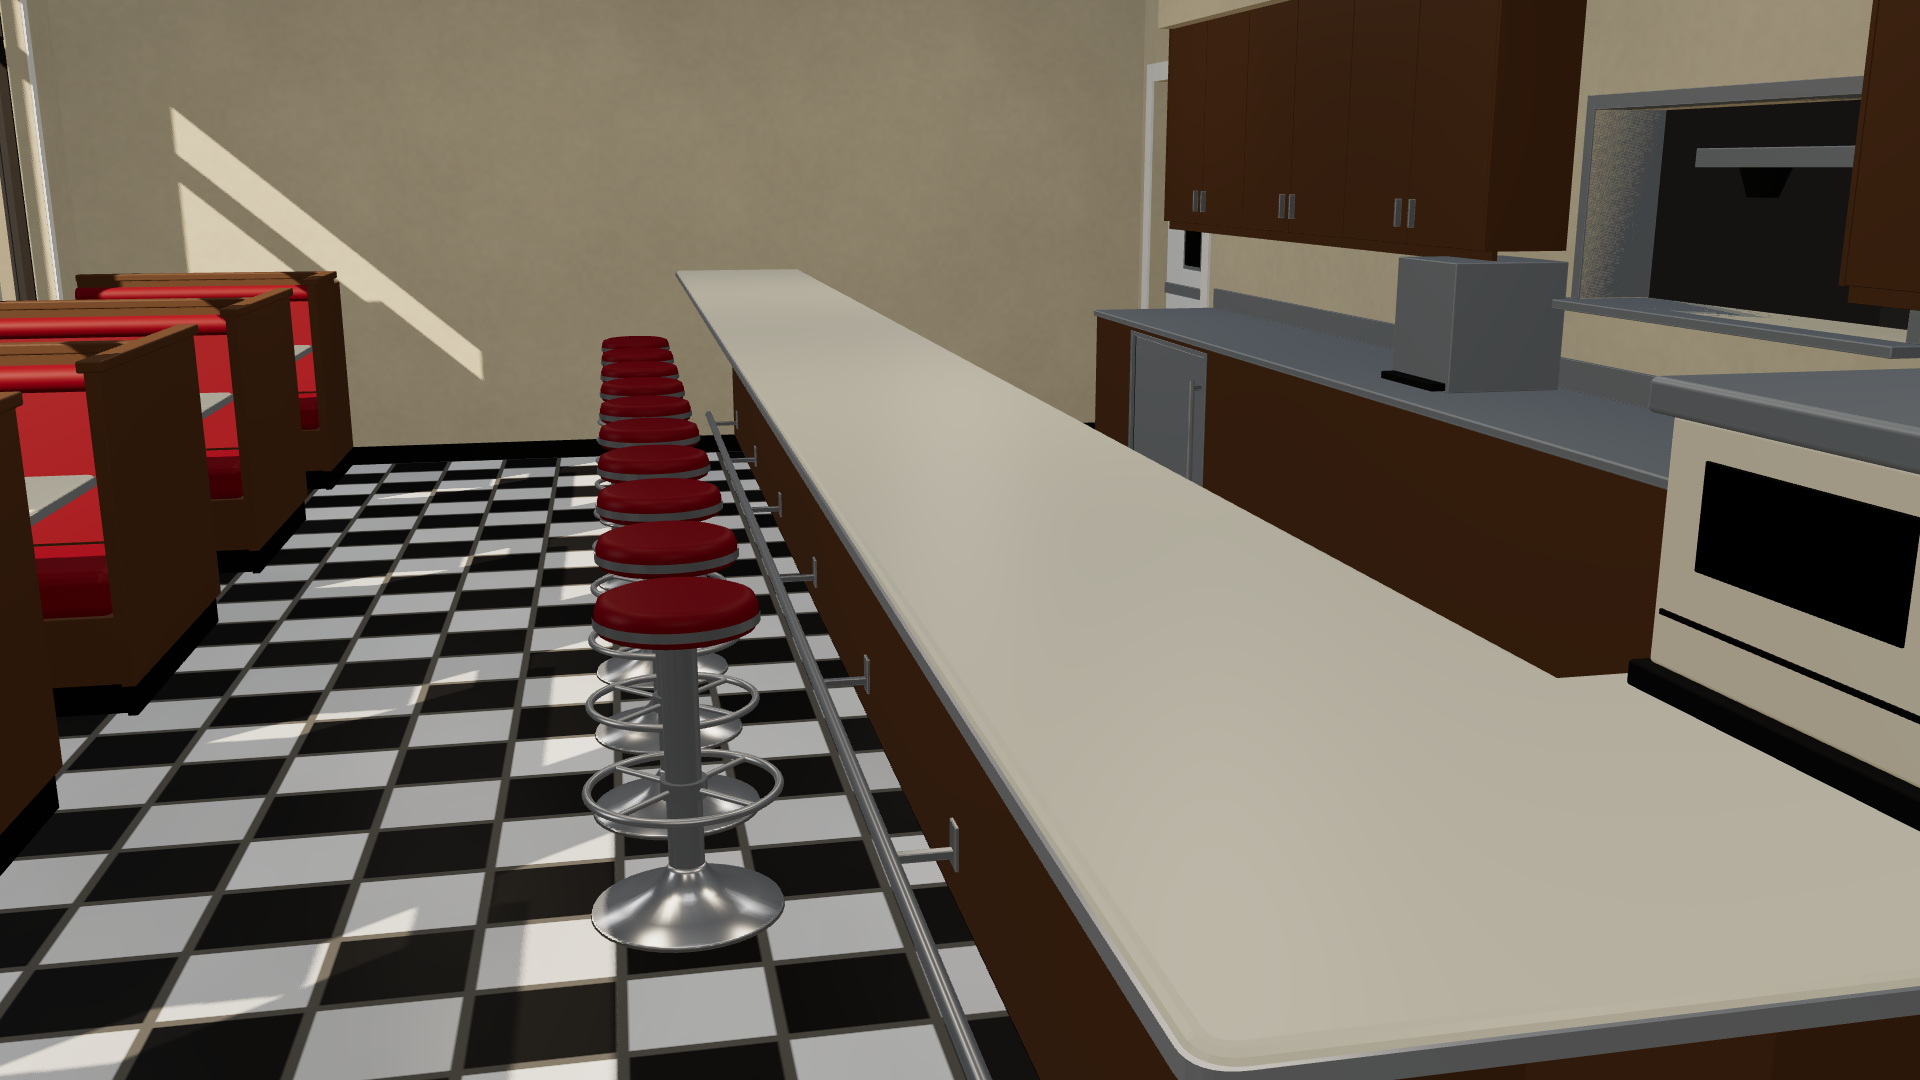
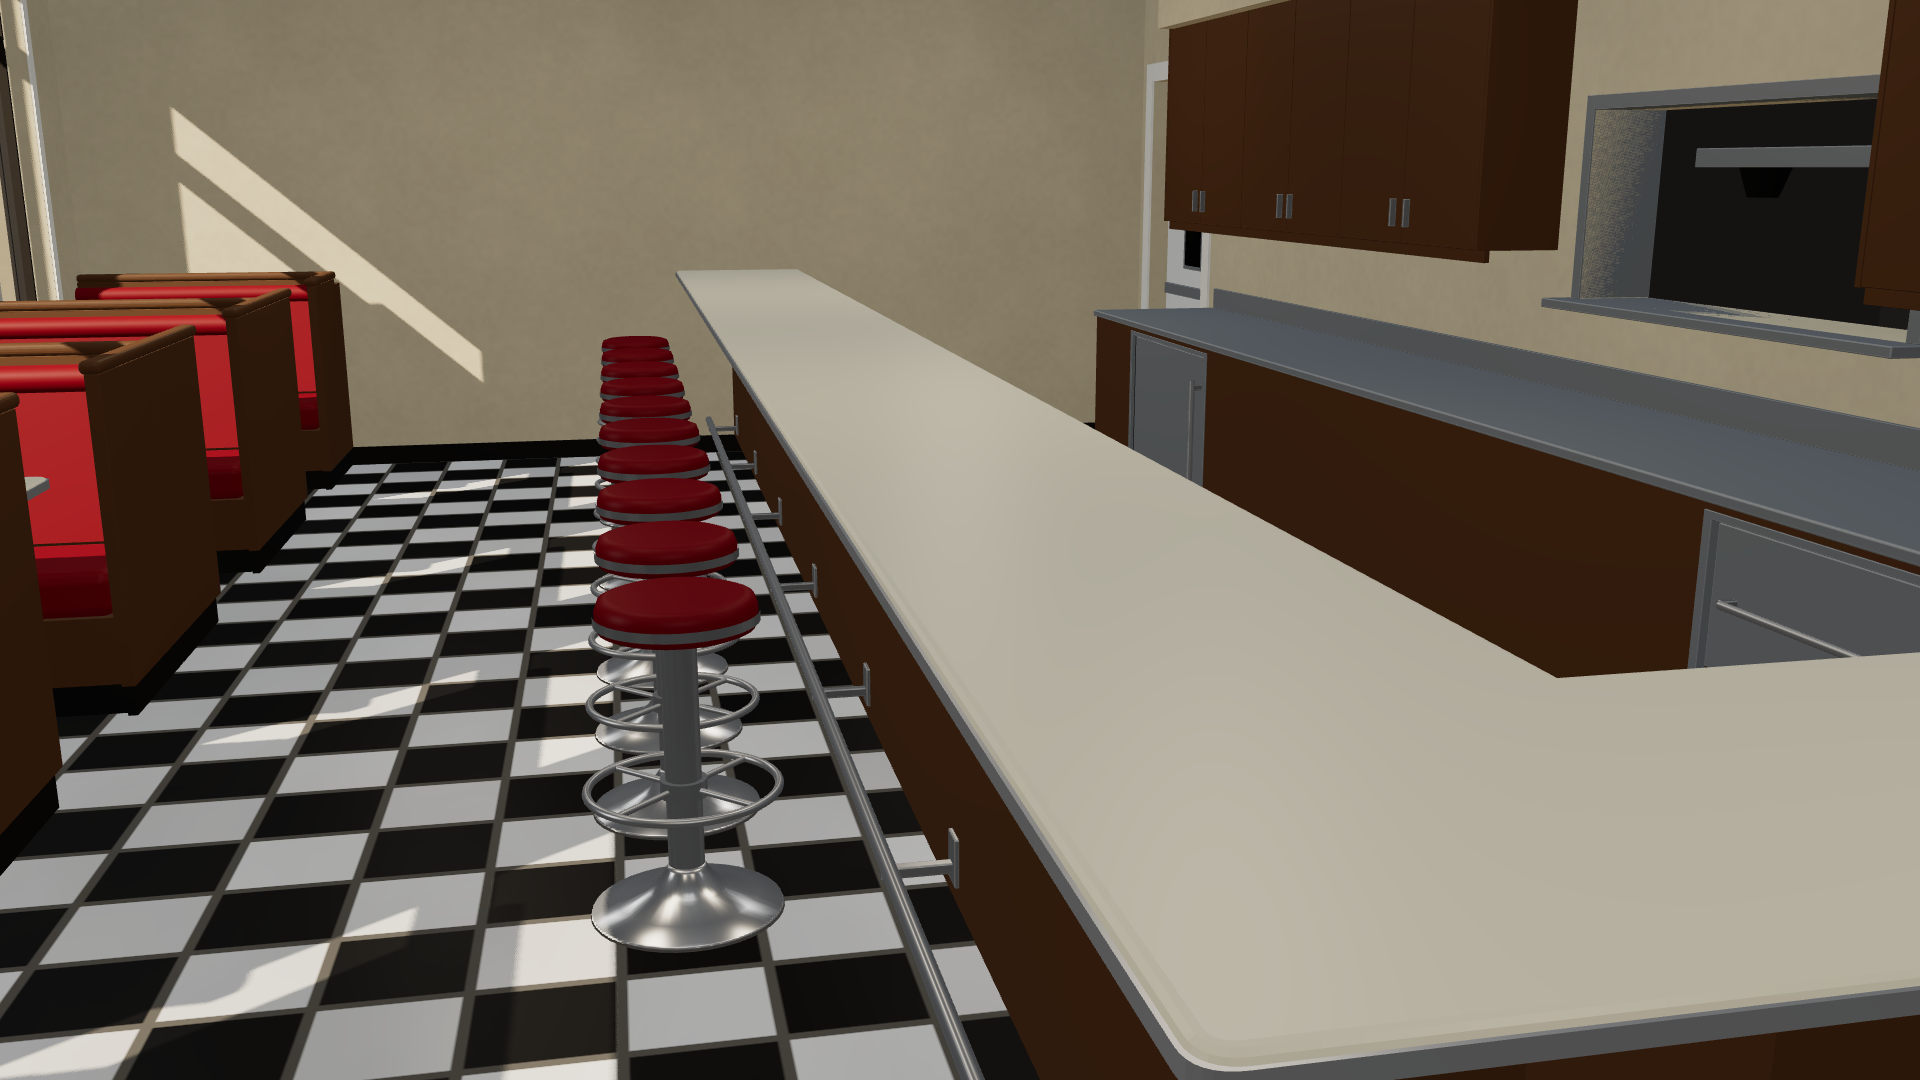
System 1 rev 4: close-out per critic review

diff --git a/src/scene/Counter.ts b/src/scene/Counter.ts
@@ -60,9 +60,10 @@ export function buildCounter(parent: THREE.Group, pal: Palette): { colliders: Me
     rail.translate((xMin + 0.05 + tubeX) / 2, footrest.y, tubeZ);
     b.add(rail, pal.chrome);
     for (let x = xMin + 0.3; x < xMax; x += footrest.bracketPitch) {
-      // Bracket: wall plate on the die, horizontal arm out to the tube, saddle under it
-      b.rbox(pal.chrome, [x - 0.03, footrest.y - 0.05, dieFront - 0.002], [x + 0.03, footrest.y + 0.05, dieFront + 0.008], 0.003);
-      b.rbox(pal.chrome, [x - 0.012, footrest.y - 0.028, dieFront], [x + 0.012, footrest.y - 0.008, tubeZ + 0.01], 0.003);
+      // Cast bracket: 70 × 110 mm base plate on the die, tapered arm out to a saddle under the tube
+      b.rbox(pal.chrome, [x - 0.035, footrest.y - 0.055, dieFront - 0.002], [x + 0.035, footrest.y + 0.055, dieFront + 0.01], 0.004);
+      b.rbox(pal.chrome, [x - 0.014, footrest.y - 0.03, dieFront], [x + 0.014, footrest.y - 0.006, tubeZ + 0.012], 0.004);
+      b.rbox(pal.chrome, [x - 0.02, footrest.y - 0.032, tubeZ - 0.014], [x + 0.02, footrest.y + 0.004, tubeZ + 0.014], 0.005);
     }
     // L-return footrest along z
     const rail2 = new THREE.CylinderGeometry(footrest.tubeR, footrest.tubeR, tubeZ - lReturnZEnd - 0.05, 20);
@@ -73,21 +74,12 @@ export function buildCounter(parent: THREE.Group, pal: Palette): { colliders: Me
     elbow.translate(tubeX, footrest.y, tubeZ);
     b.add(elbow, pal.chrome);
     for (let z = lReturnZEnd + 0.3; z < dieBack; z += footrest.bracketPitch) {
-      b.rbox(pal.chrome, [lDieX1 - 0.002, footrest.y - 0.05, z - 0.03], [lDieX1 + 0.008, footrest.y + 0.05, z + 0.03], 0.003);
-      b.rbox(pal.chrome, [lDieX1, footrest.y - 0.028, z - 0.012], [tubeX + 0.01, footrest.y - 0.008, z + 0.012], 0.003);
+      b.rbox(pal.chrome, [lDieX1 - 0.002, footrest.y - 0.055, z - 0.035], [lDieX1 + 0.01, footrest.y + 0.055, z + 0.035], 0.004);
+      b.rbox(pal.chrome, [lDieX1, footrest.y - 0.03, z - 0.014], [tubeX + 0.012, footrest.y - 0.006, z + 0.014], 0.004);
+      b.rbox(pal.chrome, [tubeX - 0.014, footrest.y - 0.032, z - 0.02], [tubeX + 0.014, footrest.y + 0.004, z + 0.02], 0.005);
     }
 
-    // Register stand on the top at the door end: 0.45 × 0.35 × 0.35, base plinth, body, lid.
-    {
-      const { x0, x1, z0, z1 } = COUNTER.register;
-      const y = height;
-      b.rbox(pal.darkMetal, [x0, y, z0], [x1, y + 0.03, z1], 0.004);
-      b.rbox(pal.formica, [x0 + 0.015, y + 0.03, z0 + 0.015], [x1 - 0.015, y + 0.31, z1 - 0.015], 0.006, 3);
-      b.rbox(pal.stainless, [x0 - 0.005, y + 0.31, z0 - 0.005], [x1 + 0.005, y + 0.35, z1 + 0.005], 0.008, 3);
-      // Drawer line and a display panel on the aisle (+z) face
-      b.box(pal.darkMetal, [x0 + 0.03, y + 0.09, z1 - 0.016], [x1 - 0.03, y + 0.096, z1 - 0.012]);
-      b.rbox(pal.darkGlass, [x0 + 0.08, y + 0.15, z1 - 0.018], [x1 - 0.08, y + 0.27, z1 - 0.012], 0.002);
-    }
+    // The L-return top stays empty: the register is a prop (System 2+).
 
     b.collider([xMin, 0, dieBack], [lReturnXOuter, height, topFrontZ]);
     b.collider([xMax, 0, lReturnZEnd], [lReturnXOuter, height, dieBack]);
@@ -240,9 +232,7 @@ export function buildCounter(parent: THREE.Group, pal: Palette): { colliders: Me
     b.rbox(pal.stainless, [xMin, height, zBack - 0.005], [xMax, height + 0.1, zBack + 0.015], 0.002);
     b.collider([xMin, 0, zBack], [xMax, height, zFront]);
 
-    // Coffee warmer position: stainless brewer body placeholder (System 2 details it).
-    b.rbox(pal.stainless, [coffeeX - 0.2, height, zBack + 0.05], [coffeeX + 0.2, height + 0.42, zBack + 0.45], 0.004, 3);
-    b.rbox(pal.darkMetal, [coffeeX - 0.18, height + 0.005, zBack + 0.05], [coffeeX + 0.18, height + 0.03, zBack + 0.5], 0.003);
+    void coffeeX; // the brewer itself is built in Props.ts (System 2)
   }
 
   /* ---------------- upper cabinets + soffit ---------------- */

diff --git a/src/scene/Booths.ts b/src/scene/Booths.ts
@@ -21,15 +21,17 @@ export function buildBooths(parent: THREE.Group, pal: Palette): { colliders: Mer
   const czMid = (zEnd0 + zInner) / 2;
   const cz0 = czMid - capHalf, cz1 = czMid + capHalf;
 
+  // Cap rail 60 × 40 mm with a 16 mm bullnose, one continuous run per divider.
   const capSlab = (pts: XZ[]) => {
-    const [slab] = slabGeometry(pts, { radius: 0.006, y0: cap.y0, thickness: cap.y1 - cap.y0, bevel: 0.006, curveSegments: 3 });
+    const [slab] = slabGeometry(pts, { radius: 0.008, y0: cap.y0, thickness: cap.y1 - cap.y0, bevel: cap.bullnose, curveSegments: 3 });
     b.add(slab, pal.laminateWood);
   };
 
   for (const cx of WINDOW.centersX) {
     /* ---- table ---- */
     {
-      const pts = rectXZ(cx - table.width / 2, zInner, cx + table.width / 2, zOuter);
+      const zT0 = zInner + table.inset;
+      const pts = rectXZ(cx - table.width / 2, zT0, cx + table.width / 2, zOuter);
       const [slab, band] = slabGeometry(pts, {
         radius: table.cornerR,
         y0: table.top - table.thickness,
@@ -40,15 +42,41 @@ export function buildBooths(parent: THREE.Group, pal: Palette): { colliders: Mer
       });
       b.add(slab, pal.formica);
       if (band) b.add(band, pal.formicaEdge);
-      // Pedestal: 90 mm chrome column on a 400 × 600 cast foot, mount plate under the top.
-      const pz = (zInner + zOuter) / 2;
-      b.rbox(pal.darkMetal, [cx - 0.2, 0, pz - 0.3], [cx + 0.2, 0.03, pz + 0.3], 0.012, 3);
-      const colH = table.top - table.thickness - 0.045;
-      const col = new THREE.CylinderGeometry(0.045, 0.045, colH, 24);
-      col.translate(cx, 0.03 + colH / 2, pz);
+      // Pedestal on the table centroid: cast bell base Ø 470 (40 mm rim rising to a Ø 150 boss),
+      // chrome column, 360 mm spider plate under the top.
+      const pz = (zT0 + zOuter) / 2;
+      const { bellR, bellRim, bossR, bossH, columnR, spider } = BOOTH.pedestal;
+      const bell = new THREE.LatheGeometry(
+        [
+          new THREE.Vector2(0, 0),
+          new THREE.Vector2(bellR, 0),
+          new THREE.Vector2(bellR, 0.012),
+          new THREE.Vector2(bellR - 0.006, bellRim),
+          new THREE.Vector2(bellR * 0.72, bellRim + 0.012),
+          new THREE.Vector2(bellR * 0.45, bellRim + 0.03),
+          new THREE.Vector2(bossR + 0.01, bossH - 0.012),
+          new THREE.Vector2(bossR, bossH),
+          new THREE.Vector2(0, bossH),
+        ],
+        48,
+      );
+      bell.translate(cx, 0, pz);
+      b.add(bell, pal.darkMetal);
+      const colH = table.top - table.thickness - 0.02 - bossH;
+      const col = new THREE.CylinderGeometry(columnR, columnR, colH, 28);
+      col.translate(cx, bossH + colH / 2, pz);
       b.add(col, pal.chrome);
-      b.rbox(pal.darkMetal, [cx - 0.15, table.top - table.thickness - 0.015, pz - 0.15], [cx + 0.15, table.top - table.thickness, pz + 0.15], 0.004);
-      b.collider([cx - table.width / 2, 0, zInner], [cx + table.width / 2, table.top, zOuter]);
+      const plate = new THREE.CylinderGeometry(spider / 2, spider / 2 - 0.01, 0.02, 32);
+      plate.translate(cx, table.top - table.thickness - 0.01, pz);
+      b.add(plate, pal.darkMetal);
+      for (let k = 0; k < 4; k++) {
+        const arm = new THREE.BoxGeometry(spider / 2 - columnR, 0.03, 0.04);
+        arm.translate((spider / 2 + columnR) / 2, 0, 0);
+        arm.rotateY((k / 4) * Math.PI * 2);
+        arm.translate(cx, table.top - table.thickness - 0.035, pz);
+        b.add(arm, pal.darkMetal);
+      }
+      b.collider([cx - table.width / 2, 0, zT0], [cx + table.width / 2, table.top, zOuter]);
     }
 
     /* ---- benches ---- */

diff --git a/src/scene/layout.ts b/src/scene/layout.ts
@@ -26,6 +26,8 @@ export const WINDOW = {
   head: 2.62,
   /** Horizontal transom bar. */
   transomY: 2.2,
+  /** Head bulkhead (blind pocket) between the window head trim and the ceiling grid. */
+  headSoffit: { bottom: 2.7, depth: 0.2 },
   /** Centres along x of the 5 front windows; each has a booth in front of it. Pitch 1.8. */
   centersX: [-4.7, -2.9, -1.1, 0.7, 2.5],
 } as const;
@@ -47,13 +49,15 @@ export const BOOTH = {
   /** Aisle end and wall end of the seating (z). Table wall edge sits 24 mm off the apron. */
   zInner: 2.0,
   zOuter: 3.21,
-  table: { width: 0.7, top: 0.75, thickness: 0.038, cornerR: 0.03, band: 0.025 },
+  /** Table is inset 120 mm from the end panels; 50 mm corner radii. */
+  table: { width: 0.7, inset: 0.12, top: 0.75, thickness: 0.038, cornerR: 0.05, band: 0.025 },
+  pedestal: { bellR: 0.235, bellRim: 0.04, bossR: 0.075, bossH: 0.09, columnR: 0.045, spider: 0.36 },
   seat: { front: 0.36, depth: 0.45, thickness: 0.14, top: 0.45, edgeR: 0.04 },
   /** Wedge back: front face reclined, rear face vertical against the divider, tapering to the roll. */
   back: { frontX: 0.76, rearX: 0.88, top: 0.97, reclineDeg: 9, rollR: 0.045 },
   divider: { x0: 0.88, x1: 0.92 },
   /** One continuous mitred cap per divider (T in plan: divider + both end panels). */
-  cap: { y0: 1.045, y1: 1.08, width: 0.07 },
+  cap: { y0: 1.04, y1: 1.08, width: 0.06, bullnose: 0.016 },
   endPanel: 0.04,
   kick: 0.1,
 } as const;
@@ -70,12 +74,10 @@ export const COUNTER = {
   /** L-return at the door end: die x ∈ [xMax, xMax+dieDepth], top out to lReturnXOuter. */
   lReturnXOuter: 2.7,
   lReturnZEnd: -1.15,
-  /** Register stand (0.45 × 0.35 × 0.35) on the L-return top by the door, off the counter sightline. */
-  register: { x0: 2.05, x1: 2.5, z0: -0.95, z1: -0.6 },
   /** Chrome footrail: 36 mm Ø at 230 mm AFF, 130 mm off the die, brackets every 1.2 m. */
-  footrest: { y: 0.23, tubeR: 0.018, gap: 0.13, bracketPitch: 1.2 },
+  footrest: { y: 0.2, tubeR: 0.018, gap: 0.13, bracketPitch: 1.2 },
   kickHeight: 0.1,
-  kickRecess: 0.04,
+  kickRecess: 0.05,
 } as const;
 
 export const STOOL = {
@@ -118,8 +120,8 @@ export const CABINETS = {
   doorWidth: 0.533,
   /** Two runs flanking the pass-through. */
   runs: [
-    [-4.5, -1.3],
-    [0.3, 2.4],
+    [-4.5, -1.35],
+    [0.35, 2.4],
   ] as ReadonlyArray<readonly [number, number]>,
 } as const;
 

diff --git a/src/scene/Shell.ts b/src/scene/Shell.ts
@@ -182,6 +182,12 @@ export function buildShell(parent: THREE.Group, pal: Palette): { colliders: Merg
     b.rbox(pal.trimPaint, [x0, y1, zFront - ct], [x1, y1 + cw, zFront], 0.002);
   }
 
+  /* ---------------- window head bulkhead (blind pocket) between head trim and grid ---------------- */
+  {
+    const { bottom, depth } = WINDOW.headSoffit;
+    b.box(pal.wallPaint, [-halfX, bottom, zFront - depth], [halfX, H, zFront], uv);
+  }
+
   /* ---------------- door frame (leaf is built in Door.ts) ---------------- */
   {
     const x0 = doorOpening.a0, x1 = doorOpening.a1;
@@ -198,8 +204,9 @@ export function buildShell(parent: THREE.Group, pal: Palette): { colliders: Merg
     b.box(pal.alum, [x0 + jw, 0.02, zs0], [x0 + jw + st, DOOR.height - jw, zs1]);
     b.box(pal.alum, [x1 - jw - st, 0.02, zs0], [x1 - jw, DOOR.height - jw, zs1]);
     b.box(pal.alum, [x0 + jw, DOOR.height - jw - st, zs0], [x1 - jw, DOOR.height - jw, zs1]);
-    // 12 mm threshold saddle across the full wall depth
-    b.rbox(pal.alum, [x0 + jw, -0.002, zFront - 0.03], [x1 - jw, 0.012, zFront + T + 0.03], 0.004, 3);
+    // 100 × 12 mm aluminium threshold saddle under the leaf; concrete slab fills the opening below it
+    b.rbox(pal.alum, [x0 + jw, -0.002, zMid - 0.05], [x1 - jw, 0.012, zMid + 0.05], 0.004, 3);
+    b.box(pal.concrete, [x0, yLow, zFront - 0.01], [x1, 0, zFront + T], { uvScale: 1 });
     // Closer bracket on the head (interior side); the arm lives on the leaf in Door.ts
     b.rbox(pal.darkMetal, [x0 + jw + 0.08, DOOR.height - jw - 0.004, zFront + 0.01], [x0 + jw + 0.34, DOOR.height - jw, zFront + 0.07], 0.002);
   }
@@ -299,9 +306,9 @@ export function buildShell(parent: THREE.Group, pal: Palette): { colliders: Merg
     parent.add(voidBox);
   }
 
-  /* ---------------- exterior ground ---------------- */
+  /* ---------------- exterior ground: apron slab one 120 mm step below the floor ---------------- */
   {
-    b.box(pal.concrete, [-halfX - 1.5, yLow, zFront + T], [halfX + 1.5, 0, zFront + T + 1.8], { uvScale: 1 });
+    b.box(pal.concrete, [-halfX - 1.5, yLow - 0.15, zFront + T], [halfX + 1.5, -0.12, zFront + T + 1.8], { uvScale: 1 });
     const g = new THREE.PlaneGeometry(90, 90);
     g.rotateX(-Math.PI / 2);
     g.translate(0, yLow, 0);

diff --git a/src/scene/Ceiling.ts b/src/scene/Ceiling.ts
@@ -8,7 +8,7 @@ import * as THREE from "three";
 import type { Palette } from "../core/materials";
 import { MergedBuilder } from "../core/merge";
 import { RoundedBoxGeometry } from "three/examples/jsm/geometries/RoundedBoxGeometry.js";
-import { BACK_BAR, CABINETS, CEILING, FAN, ROOM, cellX, cellZ } from "./layout";
+import { BACK_BAR, CABINETS, CEILING, FAN, ROOM, WINDOW, cellX, cellZ } from "./layout";
 
 export interface CeilingResult {
   fanRotor: THREE.Group;
@@ -98,16 +98,18 @@ export function buildCeiling(parent: THREE.Group, pal: Palette): CeilingResult {
         }
       }
     }
-    // Wall angle around the perimeter (22 mm face), and along the cabinet soffit
-    const wa = 0.022;
-    b.box(pal.tbar, [-halfX, teeY0, zBack], [-halfX + wa, H, zFront]);
-    b.box(pal.tbar, [halfX - wa, teeY0, zBack], [halfX, H, zFront]);
-    b.box(pal.tbar, [-halfX, teeY0, zBack], [halfX, H, zBack + wa]);
-    b.box(pal.tbar, [-halfX, teeY0, zFront - wa], [halfX, H, zFront]);
+    // Wall angle (25 mm face, 3 mm below the tee face so it reads) around the perimeter,
+    // along the cabinet bulkhead and along the window head bulkhead.
+    const wa = 0.025, wy = teeY0 - 0.003;
+    const zw = zFront - WINDOW.headSoffit.depth;
+    b.box(pal.tbar, [-halfX, wy, zBack], [-halfX + wa, H, zw]);
+    b.box(pal.tbar, [halfX - wa, wy, zBack], [halfX, H, zw]);
+    b.box(pal.tbar, [-halfX, wy, zBack], [halfX, H, zBack + wa]);
+    b.box(pal.tbar, [-halfX, wy, zw - wa], [halfX, H, zw]);
     const zs = zBack + CABINETS.soffitDepth;
-    b.box(pal.tbar, [BACK_BAR.xMin, teeY0, zs], [BACK_BAR.xMax, H, zs + wa]);
-    b.box(pal.tbar, [BACK_BAR.xMin - wa, teeY0, zBack], [BACK_BAR.xMin, H, zs]);
-    b.box(pal.tbar, [BACK_BAR.xMax, teeY0, zBack], [BACK_BAR.xMax + wa, H, zs]);
+    b.box(pal.tbar, [BACK_BAR.xMin, wy, zs], [BACK_BAR.xMax, H, zs + wa]);
+    b.box(pal.tbar, [BACK_BAR.xMin - wa, wy, zBack], [BACK_BAR.xMin, H, zs]);
+    b.box(pal.tbar, [BACK_BAR.xMax, wy, zBack], [BACK_BAR.xMax + wa, H, zs]);
   }
 
   /* ---- troffers: whole cells, 20 mm door frame, recessed lens ---- */

diff --git a/src/core/materials.ts b/src/core/materials.ts
@@ -75,7 +75,7 @@ export function createPalette(maxAnisotropy: number): Palette {
     ceilingTile,
     tbar: new THREE.MeshStandardMaterial({ color: 0xf2f0ea, roughness: 0.55, metalness: 0.2 }),
     floor,
-    baseboard: new THREE.MeshStandardMaterial({ color: 0x141414, roughness: 0.6, metalness: 0 }),
+    baseboard: new THREE.MeshStandardMaterial({ color: 0x2a2724, roughness: 0.55, metalness: 0 }),
     trimPaint: new THREE.MeshStandardMaterial({ color: 0xf1ede2, roughness: 0.5, metalness: 0 }),
     vinylRed: new THREE.MeshStandardMaterial({ color: 0x8a1a1a, roughness: 0.45, metalness: 0 }),
     formica: new THREE.MeshStandardMaterial({ color: 0xe8dcc0, roughness: 0.35, metalness: 0 }),
